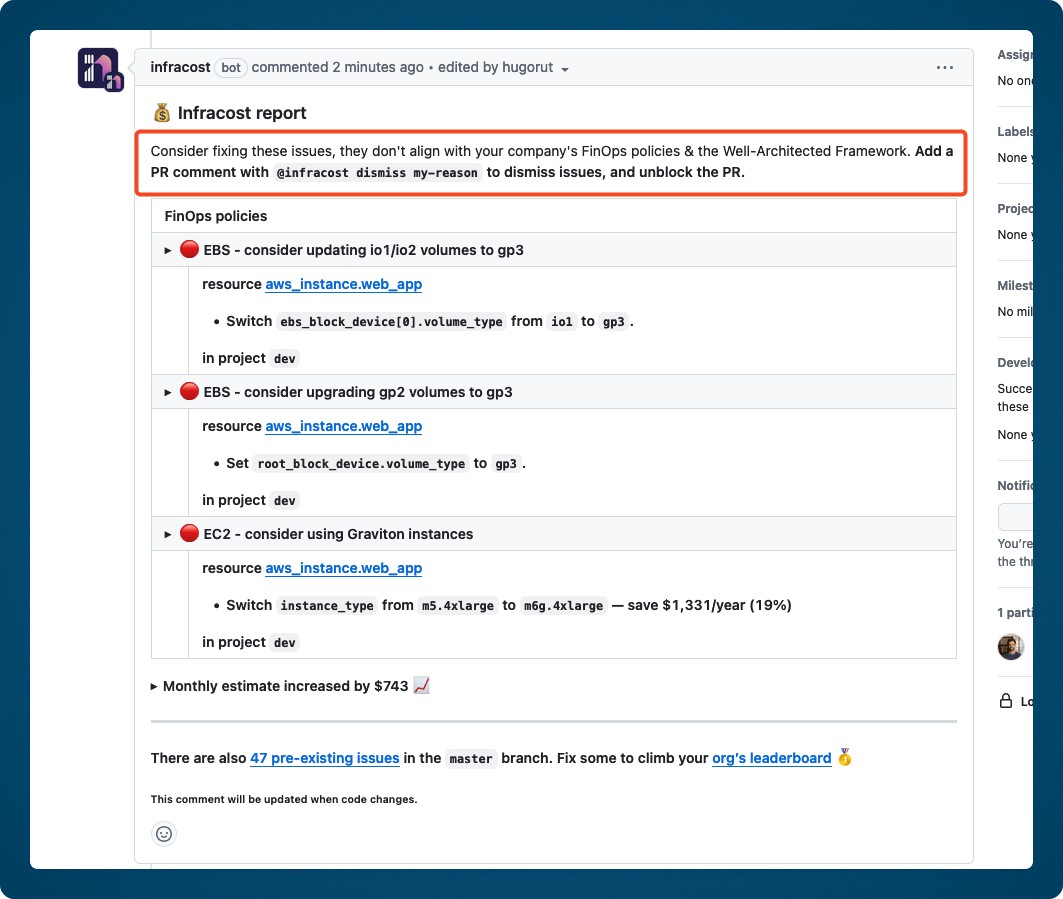
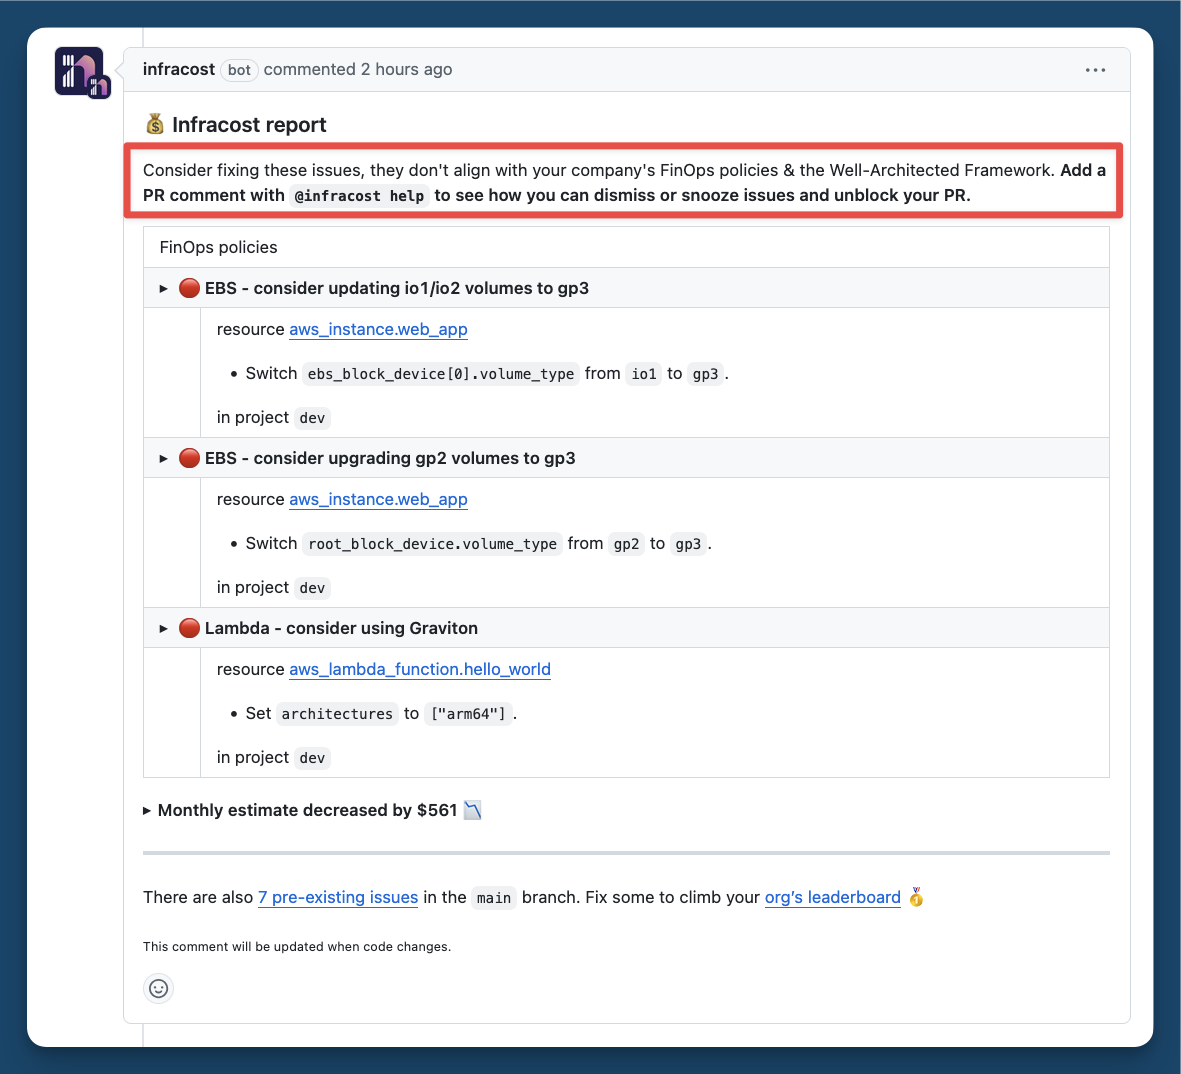
docs: Add description of @infracost snooze command

Changed region(s): [[0.0, 0.0, 1.0, 1.0], [0.5898, 0.6541, 0.7451, 0.6852]]

diff --git a/src/css/docs.css b/src/css/docs.css
@@ -388,6 +388,9 @@ blockquote {
   box-shadow: 5px 5px 2px 0 var(--nu50);
 }
 
+img.img-rounded  {
+  border-radius: var(--ifm-code-border-radius);
+}
 
 @media (min-width: 769px) {
   .ci-grid {

diff --git a/docs/integrations/github_app.md b/docs/integrations/github_app.md
@@ -99,28 +99,44 @@ The GitHub App automatically reflects the following changes in Infracost:
 
 From the Org Settings > Integrations > GitHub App page, you can disable pull request comments so cost estimates, guardrails and tagging policies are only shown in Infracost Cloud. This enables you to test these features without impacting engineering workflows.
 
-### Dismissing policy issues
+### Dismiss or snooze policy issues
 
-Infracost FinOps and Tagging issues can be dismissed directly from the GitHub pull request UI, even if the policy is set to block pull requests. This allows engineers to ship critical changes without having to fix all issues. During non-emergency circumstances, we recommend engineers fix the issues they can, and dismiss any that they cannot fix.
+Infracost FinOps and Tagging issues can be dismissed or snoozed directly from the GitHub pull request UI, even if the policy is set to block pull requests. This allows engineers to ship critical changes without having to fix all issues. During non-emergency circumstances, we recommend engineers fix the issues they can, and dismiss/snooze any that they cannot fix.
 
-GitHub pull request comments contain information on how to dismiss issues.
+GitHub pull request comments contain information on how to dismiss/snooze issues.
 
-<img src={useBaseUrl("img/github/desc.png")} alt="pr comment" />
+<img src={useBaseUrl("img/github/desc.png")} alt="pr comment" className="img-rounded" />
 
 Engineers can add a pull request comment `@infracost help` to get more information on how to dismiss the issues.
 
-<img src={useBaseUrl("img/github/help.png")} alt="help" />
+<img src={useBaseUrl("img/github/help.png")} alt="help" className="img-rounded" />
+
+#### Dismiss
+
+The dismiss command makes Infracost ignore the detected issues going forward. If you simply need to unblock a PR merge and intend to address the issue later, consider using the snooze command.
 
 Dismissing a policy issue works as follows:
 - The engineer adds a comment to the pull request to dismiss the issue using the command `@infracost dismiss <optional reason>`.
 - The Infracost GitHub App will then read the comment and react to the comment to let the engineer know the issue is queued for dismissal.
-  <img src={useBaseUrl("img/github/reaction.png")} alt="reaction" />
+  <img src={useBaseUrl("img/github/reaction.png")} alt="reaction" className="img-rounded" />
 - Infracost will then run another status check on the pull request once the issue is dismissed. This will update the Infracost comment to remove all the issues.
-  <img src={useBaseUrl("img/github/passing.png")} alt="passing" />
+  <img src={useBaseUrl("img/github/passing.png")} alt="passing" className="img-rounded" />
 - Any blocking status checks will be updated to succeeded, enabling the engineer to merge the pull request.
-  <img src={useBaseUrl("img/github/checks.png")} alt="checks" />
+  <img src={useBaseUrl("img/github/checks.png")} alt="checks" className="img-rounded" />
 - Dismissed issues are shown in Infracost Cloud in the policies pages. You can filter by dismissed issues to see all the issues your engineers have dismissed and their reasons.
-  <img src={useBaseUrl("img/github/dismissed-table.png")} alt="dismissed table" />  
+  <img src={useBaseUrl("img/github/dismissed-table.png")} alt="dismissed table" className="img-rounded" />  
+
+#### Snooze
+
+The snooze command allows you to unblock the merging of a PR when Infracost detects any blocking policy issues. This is useful for urgent tasks, such as bug fixes.
+
+Snoozing a blocked PR works as follows:
+- The engineer adds a comment to the pull request to snooze the issue using the command `@infracost snooze <optional reason>`.
+  <img src={useBaseUrl("img/github/snooze.png")} alt="snooze" className="img-rounded" />
+- The Infracost GitHub App will then read the comment and react to the comment to let the engineer know the issue is queued for snoozing.
+- Any blocking Infracost status checks will be updated to succeeded, enabling the engineer to merge the pull request.
+    <img src={useBaseUrl("img/github/snooze-checks.png")} alt="checks" className="img-rounded" />
+- The next opened PR that touches the related code will display a comment with the snoozed issues and block merging, just like the original.
 
 ### GitHub Actions to App migration
 
